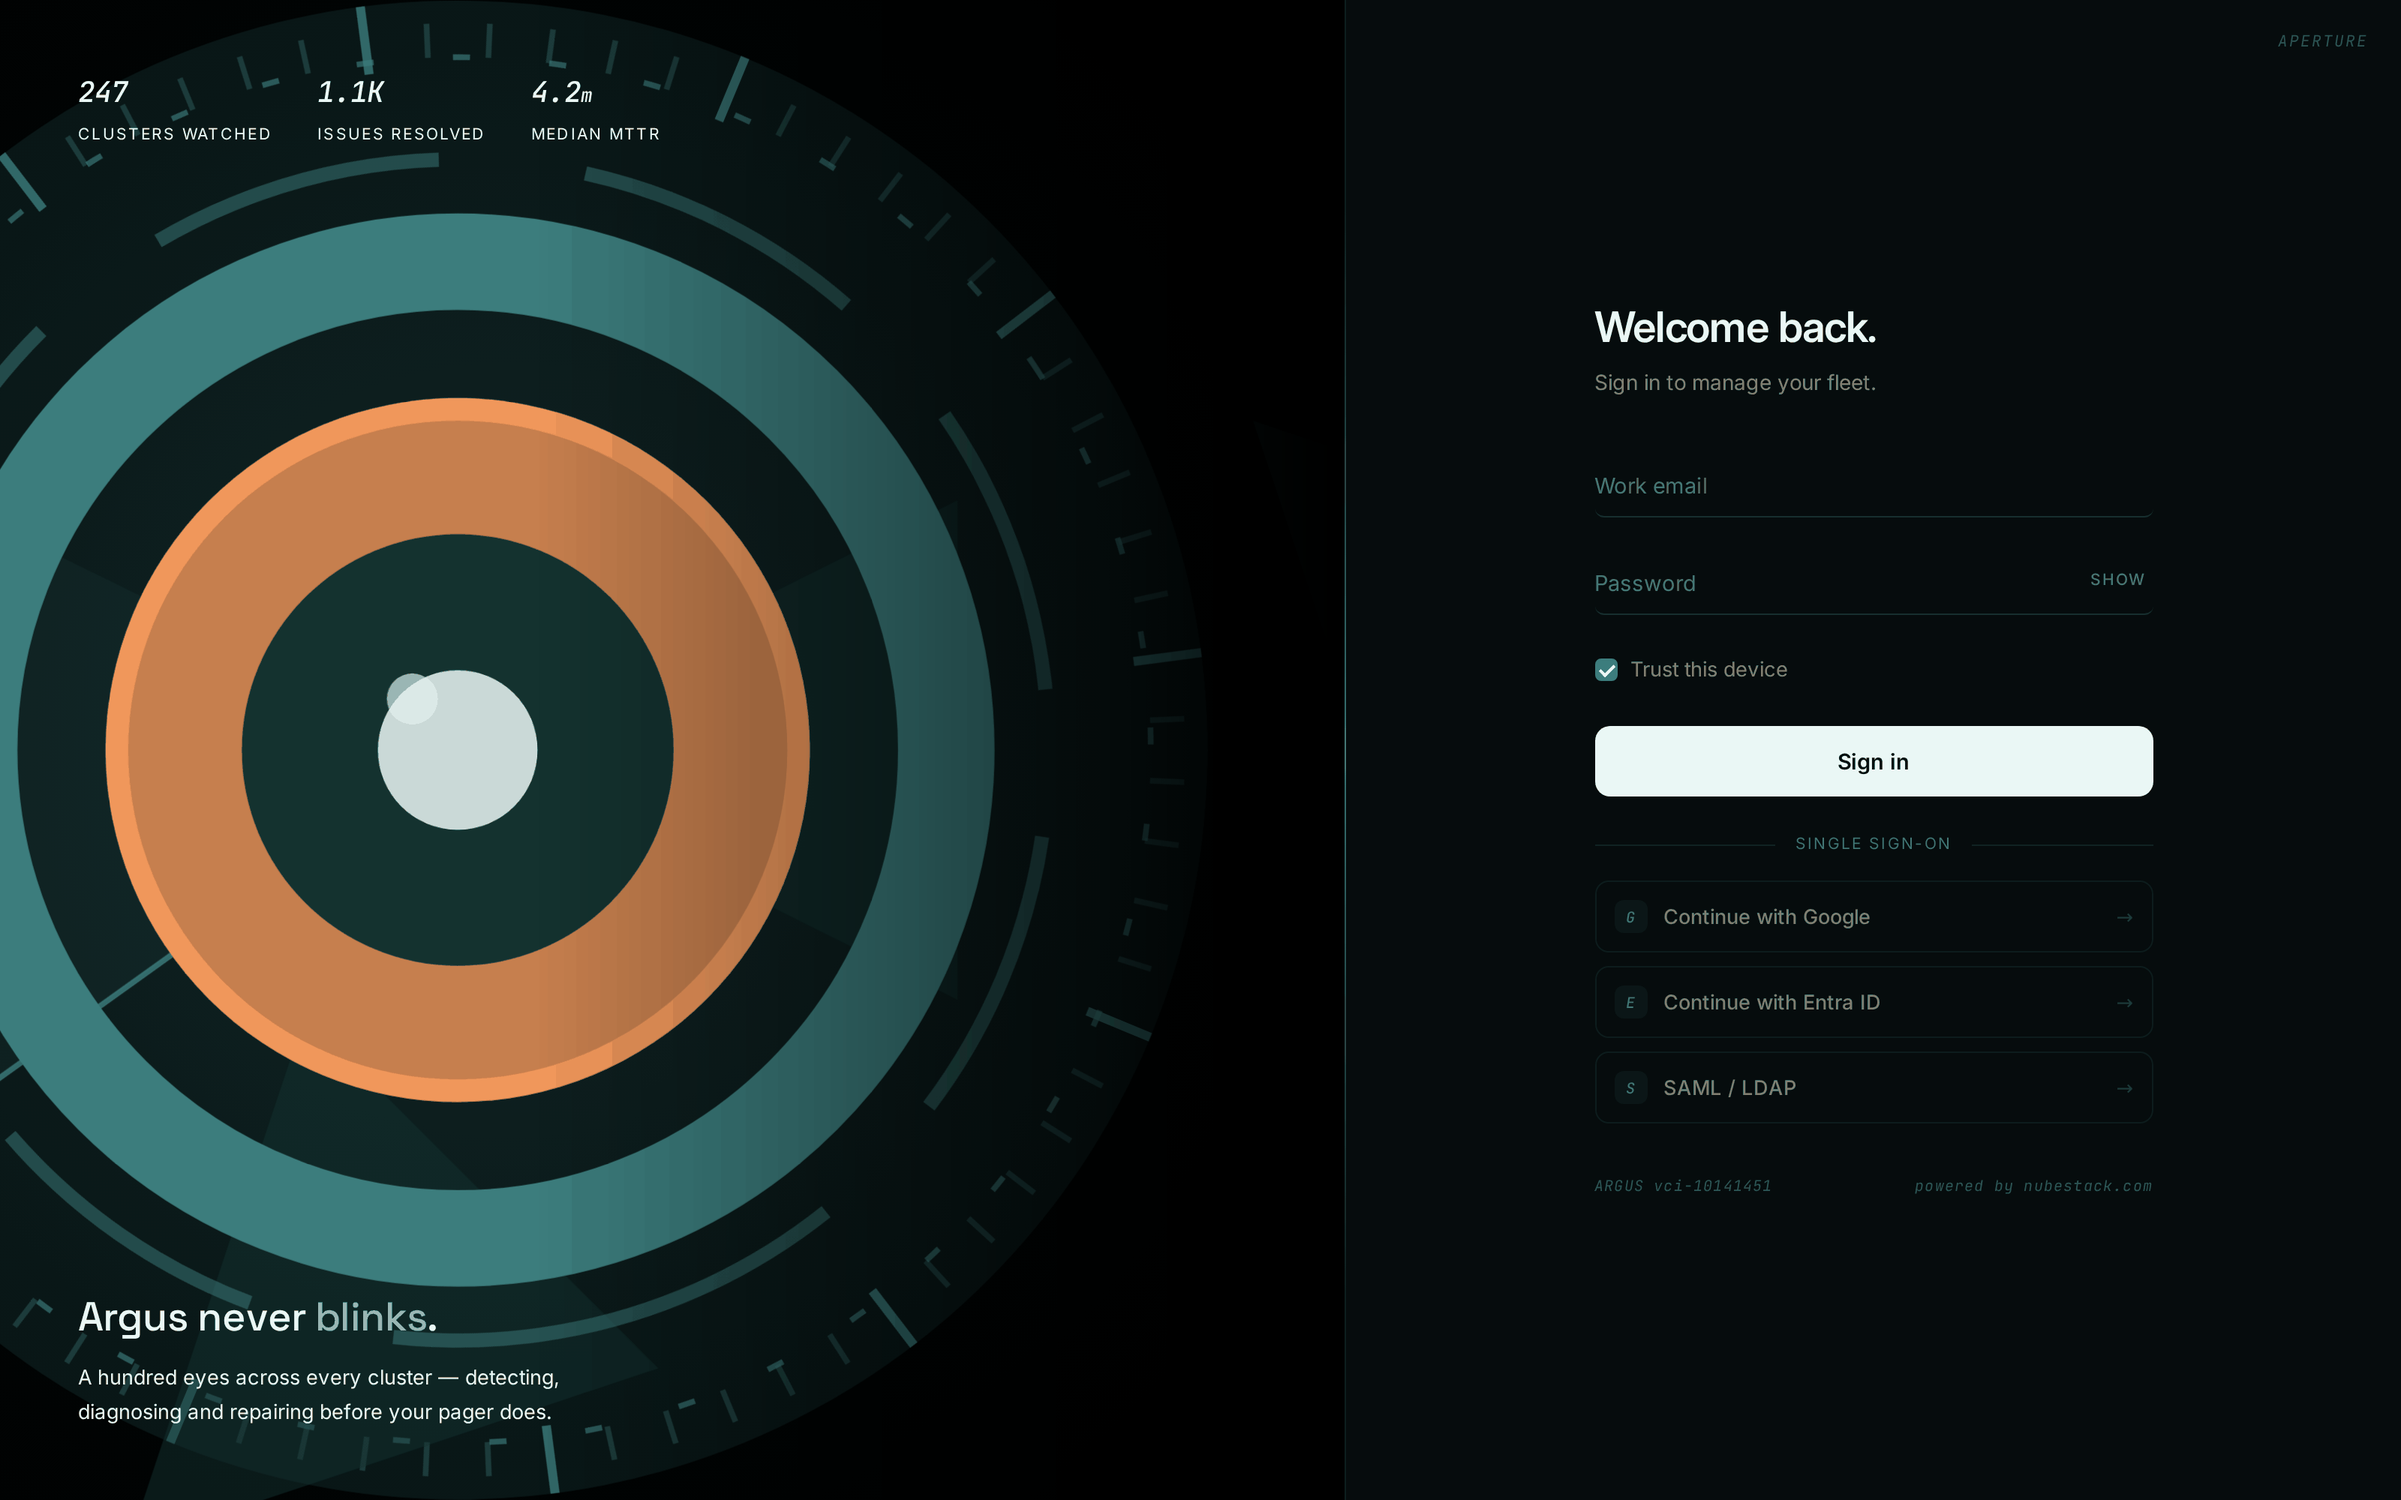
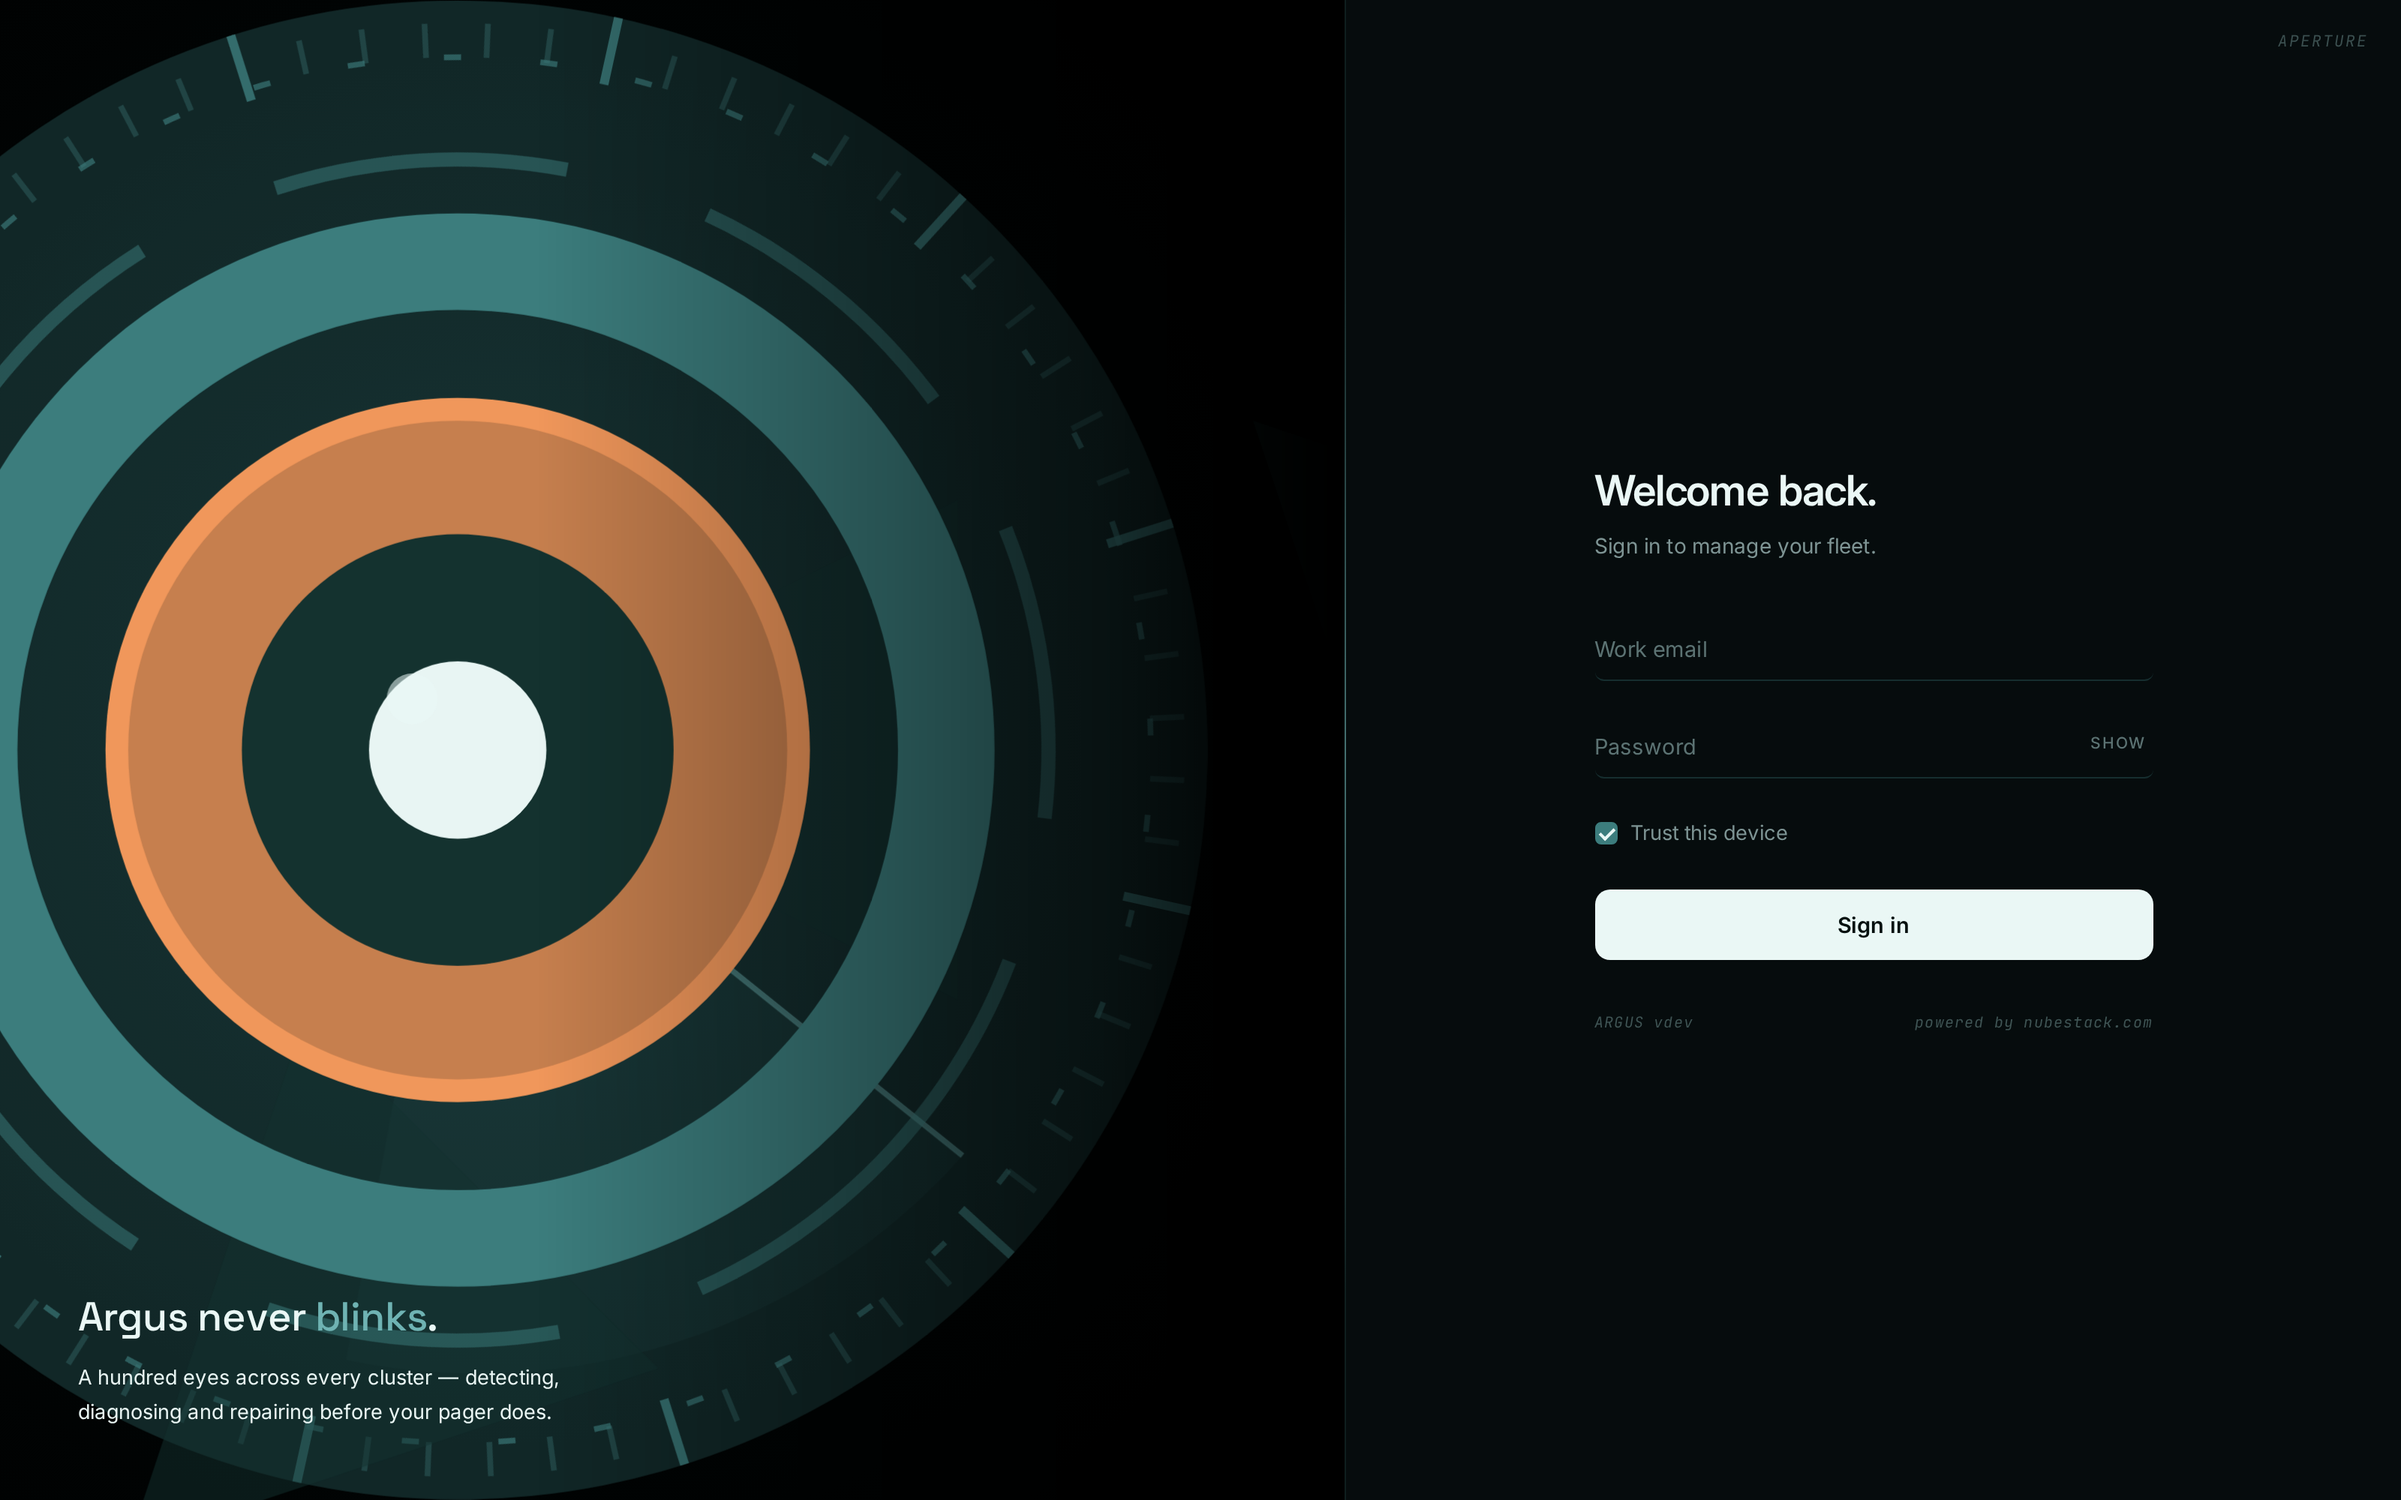
Sign-in page: two styles, no installation figures; fix two links
The sign-in page now has two styles (Aperture, Sentinel), shows no SSO
buttons until a provider is configured, and shows nothing about the
installation. New screenshot. Fixed two links to install.md sections
that had been renamed.

diff --git a/docs/getting-started/first-sign-in.md b/docs/getting-started/first-sign-in.md
@@ -6,12 +6,12 @@ things before you connect anything real.
 ![The ARGUS sign-in page in the Aperture style: the ARGUS eye on the left, and the email and
 password form on the right](../assets/images/00-login.png)
 
-*The sign-in page. Configured single sign-on providers appear as buttons under the password
-form; until one is configured, the buttons are shown disabled. The figures across the top left
-are part of the design, not read from your installation.*
+*The sign-in page. Each single sign-on provider you configure appears as a button under the
+password form; with none configured, there are none. The page shows nothing about your
+installation, because anyone who can reach it sees it before signing in.*
 
-The page comes in three styles — **Aperture**, the default, **Sentinel** and **Telemetry** —
-chosen for the whole installation under **Settings → Appearance**.
+The page comes in two styles — **Aperture**, the default, and **Sentinel** — chosen for the
+whole installation under **Settings → Appearance**.
 
 ## Sign in
 

diff --git a/docs/getting-started/requirements.md b/docs/getting-started/requirements.md
@@ -19,7 +19,7 @@ horizontally; the chart enforces one replica.
 !!! note "The bundled database is not backed up on a schedule"
     It is dumped before each upgrade so the upgrade can be rolled back. For history you must
     keep, use an external PostgreSQL with its own backups. See
-    [Install the hub](install.md#storage).
+    [Install the hub](install.md#before-you-start).
 
 ## Watched clusters
 

diff --git a/docs/getting-started/configure-analysis.md b/docs/getting-started/configure-analysis.md
@@ -36,7 +36,7 @@ restart.*
 | Runner token | The shared token the runner expects. Leave it blank when the hub chart deployed the runner: the hub already has it |
 
 The hub chart deploys the runner when you give it a model credential; see
-[Install the hub](install.md#ai-claude-code-or-codex).
+[Install the hub](install.md#claude-code-or-codex).
 
 ## Test before you rely on it
 
